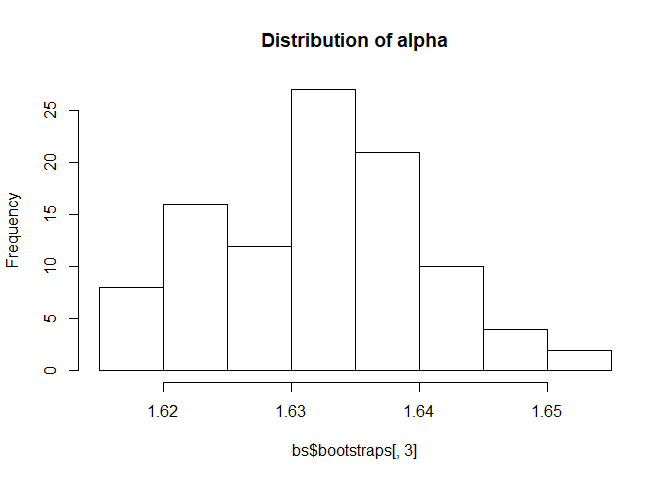
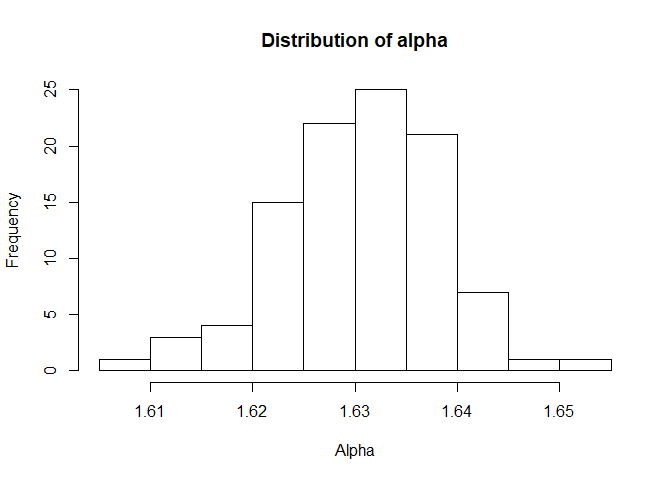
updated graph

diff --git a/Power_Law_vs_Lognormal_US_Babynames/Power_Law_vs_Lognormal_US_Babynames.md b/Power_Law_vs_Lognormal_US_Babynames/Power_Law_vs_Lognormal_US_Babynames.md
@@ -1,4 +1,4 @@
-Exercise04 Solution
+Power-law and Log-Normal Distributions
 ================
 
 Fitting Power-law and Log-Normal Distributions
@@ -73,7 +73,7 @@ X = table$count
 CCDF = ecdf(X)
 xval = sort(unique(X))
 yval = CCDF(xval)
-plot(xval, 1-yval,log = "xy", main="Baby Name CCDF", ylab="P(X>x)", xlab='babies')
+plot(xval, 1-yval,log = "xy", main="Baby Name CCDF", ylab="P(X>x)", xlab='Number of Babies')
 ```
 
     ## Warning in xy.coords(x, y, xlabel, ylabel, log): 1 y value <= 0 omitted
@@ -149,9 +149,9 @@ mm$getPars()
 
 ``` r
 mm$setXmin(est)
-plot(mm)
+plot(mm, ylab="P(X>x)", xlab='Number of Babies')
 lines(mm, col=2)
-legend("bottomleft", "Power-law", col="red")
+legend("topright", "Power-law", col="red")
 ```
 
 ![](Power_Law_vs_Lognormal_US_Babynames_files/figure-markdown_github-ascii_identifiers/unnamed-chunk-5-1.png)
@@ -169,28 +169,28 @@ bs=bootstrap(mm, no_of_sims = 100, threads = 4)
     ##             it. If the estimated values are below xmax, it's probably OK not to 
     ##             worry about this.
 
-    ## Expected total run time for 100 sims, using 4 threads is 11200 seconds.
+    ## Expected total run time for 100 sims, using 4 threads is 11400 seconds.
 
 ``` r
-hist(bs$bootstraps[,2], breaks="fd", main = 'Distribution of Xmin')
+hist(bs$bootstraps[,2], breaks="fd", main = 'Distribution of Xmin',xlab='Xmin')
 ```
 
 ![](Power_Law_vs_Lognormal_US_Babynames_files/figure-markdown_github-ascii_identifiers/unnamed-chunk-6-1.png)
 
 ``` r
-hist(bs$bootstraps[,3], breaks="fd", main = 'Distribution of alpha')
+hist(bs$bootstraps[,3], breaks="fd", main = 'Distribution of alpha',xlab='Alpha')
 ```
 
 ![](Power_Law_vs_Lognormal_US_Babynames_files/figure-markdown_github-ascii_identifiers/unnamed-chunk-6-2.png)
 
 ``` r
-plot(jitter(bs$bootstraps[,2], factor=1.2), bs$bootstraps[,3])
+plot(jitter(bs$bootstraps[,2], factor=1.2), bs$bootstraps[,3], xlab='Xmin', ylab='alpha', main='Bootstrap Results of Power Law Distribution')
 ```
 
 ![](Power_Law_vs_Lognormal_US_Babynames_files/figure-markdown_github-ascii_identifiers/unnamed-chunk-6-3.png)
 
 ``` r
-bs_p=bootstrap_p(mm, no_of_sims = 200, threads=2)
+bs_p=bootstrap_p(mm, no_of_sims = 100, threads=4)
 ```
 
     ## Some of your data is larger than xmax. The xmax parameter is
@@ -198,20 +198,18 @@ bs_p=bootstrap_p(mm, no_of_sims = 200, threads=2)
     ##             it. If the estimated values are below xmax, it's probably OK not to 
     ##             worry about this.
 
-    ## Expected total run time for 200 sims, using 2 threads is 44900 seconds.
+    ## Expected total run time for 100 sims, using 4 threads is 11200 seconds.
 
 ``` r
 bs_p$p
 ```
 
-    ## [1] 0.44
+    ## [1] 0.42
 
 The above chunk of code uses bootstrapping to find a distribution of X\_min and alpha and plots the distributions. However it takes too long to run, so it is left commented at the moment. bs\_p$p shows the p value of the distribution being a power-law distribution. High p value means the disitribution is likely to follow power-law.
 
 The result might not be a power-law distribution, we can try to fit a log-normal distribution instead. Let's see if the fit is better. Log-normal distribution is defined by the following formula.
-$$f(x) =  c
-                                    \\frac{1}{x^{p}}\\,
-                                    \\exp\\!\\!\\left(-\\frac{\\ln(x/\\mu)^2}{2\\sigma^2}\\right)$$
+$$f(x) =  c \\frac{1}{x^{p}}\\, \\exp\\!\\!\\left(-\\frac{\\ln(x/\\mu)^2}{2\\sigma^2}\\right)$$
 
 Where the log of the distribution follows a Gaussian distribution.
 
@@ -220,7 +218,7 @@ mm2 = dislnorm$new(X)
 #mm2$setXmin(30145) #If you want to analyze the top 1000
 est2 = estimate_pars(mm2)
 mm2$setPars(est2)
-plot(mm,xlab="Baby name sample",ylab="Baby name counts", main="")
+plot(mm,xlab="Baby name sample",ylab="Baby name counts", main="Power Law vs Log Normal Fit")
 lines(mm, col=2)
 lines(mm2, col=3)
 legend("bottomleft", c("power-law","log-normal"), col=c(2,3), lwd=c(1,1))
@@ -303,10 +301,10 @@ mm=displ$new(twtable$follower_count[twtable$follower_count!=0])
 ```
 
     ## $pars
-    ## [1] 1.374162
+    ## [1] 1.372037
     ## 
     ## $value
-    ## [1] 52290.23
+    ## [1] 53078.63
     ## 
     ## $counts
     ## function gradient 
@@ -326,16 +324,16 @@ mm=displ$new(twtable$follower_count[twtable$follower_count!=0])
 ```
 
     ## $gof
-    ## [1] 0.02471744
+    ## [1] 0.02820457
     ## 
     ## $xmin
-    ## [1] 392
+    ## [1] 487
     ## 
     ## $pars
-    ## [1] 2.185089
+    ## [1] 2.166762
     ## 
     ## $ntail
-    ## [1] 556
+    ## [1] 436
     ## 
     ## $distance
     ## [1] "ks"
@@ -357,10 +355,10 @@ mm=displ$new(twtable$friends_count[twtable$friends_count!=0])
 ```
 
     ## $pars
-    ## [1] 1.288549
+    ## [1] 1.287802
     ## 
     ## $value
-    ## [1] 80561.71
+    ## [1] 81196.88
     ## 
     ## $counts
     ## function gradient 
@@ -380,16 +378,16 @@ mm=displ$new(twtable$friends_count[twtable$friends_count!=0])
 ```
 
     ## $gof
-    ## [1] 0.05041755
+    ## [1] 0.05101606
     ## 
     ## $xmin
-    ## [1] 540
+    ## [1] 190
     ## 
     ## $pars
-    ## [1] 2.616956
+    ## [1] 2.18331
     ## 
     ## $ntail
-    ## [1] 683
+    ## [1] 1994
     ## 
     ## $distance
     ## [1] "ks"
@@ -405,4 +403,4 @@ lines(mm, col=2)
 
 ![](Power_Law_vs_Lognormal_US_Babynames_files/figure-markdown_github-ascii_identifiers/unnamed-chunk-12-2.png)
 
-It could be argue that both of these distribution are power-law distributions or another distribution. In real life it is hard to pin point the distribution with 100% certainty.
+It could be argue that both of these distribution are power-law distributions or other distributions. In real life it is hard to pin point the distribution with 100% certainty. However in these cases power-law does seem to be a good fit.
